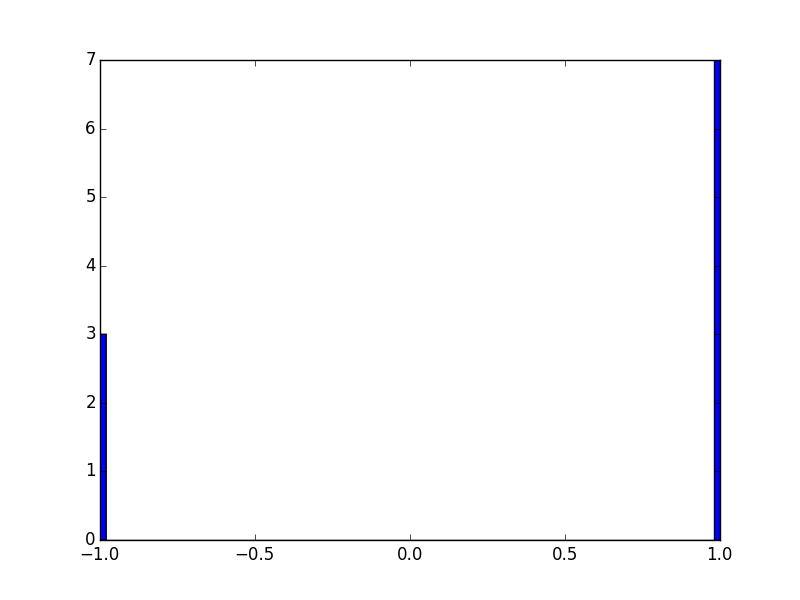
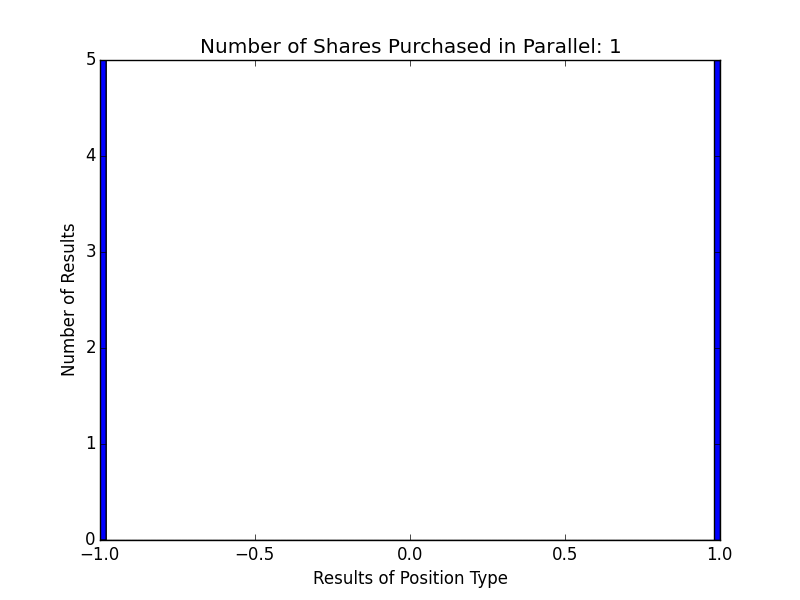
Almost done.

diff --git a/mtd368/positionsimulator.py b/mtd368/positionsimulator.py
@@ -1,49 +1,102 @@
+"""This is the primary class for the program for Assignment 8 that simulates trading."""
+
+#author: Matthew Dunn
+#netID: mtd368
+#date: 11/10/2015
+
 import numpy as np
 import matplotlib.pyplot as plt
 
 class dailypositionanalyzer(object):
-    def __init__(self):
-        self = self
-        # self.validinput = re.match(r'[\200-\377]|[\100-\132]|[\134]|[\136-\137]|[\140-\176]|[\072-\077]|[\055-\057]|[\041-\053]|\0|\v|\f|\a|\n|\r|\t|\s',self.userinput) #robust regex expression to make sure the User Input is really clean.
-        # if self.validinput != None or not(self.userinput): # also accounting for the user just hitting return here.
-        # raise ValueError('Invalid Intervals. found a character that does not belong or there was nothing entered.')random_outcome_per_position(position_value_calculator(x))
+    def __init__(self, positions, num_trials):
+        self.positions = positions
+        self.num_trials = num_trials
 
-def day_of_trading_simulator(positions, num_trials):
-    listOfPositions = positions
-    indexLog = len(listOfPositions)
+def day_of_trading(positions, num_trials):
+
+    """This function accepts two parameters a list called positions that represent the trades,
+    and integer value, num_trials, representing the number of times the simulation
+    should be run."""
+
+    indexLog = len(positions)
+    cumu_ret = np.zeros((0, num_trials),dtype=int)
     for x in range(indexLog):
-        cumu_ret = single_position_simluator(listOfPositions[x],num_trials)         #this is an array with the result of each day
-
-def single_position_simluator(numberOfSharesOfSinglePosition, num_trials):
-    dayOfTrading = np.empty((num_trials, numberOfSharesOfSinglePosition))
-    for x in np.nditer(dayOfTrading, op_flags=['readwrite']):
-        x[...] = daily_position_value_simulator(numberOfSharesOfSinglePosition)     #iterating over all the values in the ndarray and returning the randomized return.
-    cumu_ret = np.sum(dayOfTrading, axis=1)                                         #summing for each row which is a num_trial
-    print cumu_ret
-    daily_ret = np.empty((num_trials))
-    indexLog = len(daily_ret)
-    for i in range(indexLog):
-        daily_ret[i] = (cumu_ret[i]/1000) - 1
-    print daily_ret
-    return image_creation(daily_ret[i], numberOfSharesOfSinglePosition)
+        cumu_ret = np.insert(cumu_ret, [x], single_position(positions[x],num_trials), axis=0)  #this is an array with the result of each day
+    daily_ret = (cumu_ret/1000.) - 1                                                            #normalizing results of daily trading
+    image_creation(daily_ret, positions)
 
 def image_creation(daily_ret, numberOfSharesOfSinglePosition):
-    plt.hist(daily_ret,100,range=[-1,1])
-    nameOfFile = 'histogram_'+str(numberOfSharesOfSinglePosition).zfill(4)+'_.pos.png'
-    plt.savefig(nameOfFile)
 
+    """This function accepts two parameters, an array contianing the cumulative returns for each
+    simulated day of trading and an integer value, numberOfSharesOfSinglePosition,
+    representing the number shares purchased for a single position. It generates a
+    historgram for the daily return of the positions and saves it to the project file."""
 
-def daily_position_value_simulator(position):
+    for i in range(daily_ret.shape[0]):
+        plt.figure()
+        title = 'Number of Shares Purchased in Parallel: '+str(numberOfSharesOfSinglePosition[i])
+        plt.title(title)
+        plt.ylabel('Number of Results')
+        plt.xlabel('Results of Position Type')
+        plt.hist(daily_ret[i],100,range=[-1,1])
+        nameOfFile = 'histogram_'+str(numberOfSharesOfSinglePosition[i]).zfill(4)+'_.pos.png'
+        plt.savefig(nameOfFile)
+
+def single_position(numberOfSharesOfSinglePosition, num_trials):
+
+    """This function accepts two integer parameters, numberOfSharesOfSinglePosition and num_trials.
+    numberOfSharesOfSinglePosition indicates how many shares will be purchased based of a position
+    and the num_trials is the number of times the simulation will be run. This function returns
+    an array that contains the values for each day of trading."""
+
+    dayOfTrading = np.empty((num_trials, numberOfSharesOfSinglePosition))
+    for x in np.nditer(dayOfTrading, op_flags=['readwrite']):
+        x[...] = daily_position_value(numberOfSharesOfSinglePosition)     #iterating over all the values in the ndarray and returning the randomized return.
+    cumu_ret = np.sum(dayOfTrading, axis=1)                               #summing for each row which is a num_trial
+    dayOfTradingMean = str(np.mean(dayOfTrading, axis=1))
+    dayOfTradingStandardDeviation = str(np.std(dayOfTrading, axis=1))
+    results_printer(dayOfTradingMean, dayOfTradingStandardDeviation, numberOfSharesOfSinglePosition)
+    return cumu_ret
+
+def results_printer(dayOfTradingMean, dayOfTradingStandardDeviation, numberOfSharesOfSinglePosition):
+
+    """This function accepts three parameters, the dayOfTradingMean, dayOfTradingStandardDeviation, and
+    numberOfSharesOfSinglePosition. dayOfTradingMean and dayOfTradingStandardDeviation are both
+    both strings and the numberOfSharesOfSinglePosition is a integer value.  The function generates
+    a text file containing the results for each day of trading."""
+
+    concateOutputPerDay = ''
+    concateOutputPerDay = 'Number of Shares: ' + str(numberOfSharesOfSinglePosition) + '\n' + '\n' + 'Expected Value: ' + str(dayOfTradingMean) + '\n' + 'Standard Deviation: ' + str(dayOfTradingStandardDeviation) + '\n' + '\n'
+    with open('results.txt','a') as myfile:
+        myfile.write(concateOutputPerDay)
+    myfile.close()
+
+def daily_position_value(position):
+
+    """This function accepts one parameter, an integer representing the position and calculates
+    the value of the position returning the value of that position as either twice it's initial
+    value or zero, based on the random_outcome_per_position function."""
+
     positionValue = 1000/int(position)
     return random_outcome_per_position(positionValue)
 
 def random_outcome_per_position(position_value):
+
+    """This function accepts one parameter, an integer representing a position's value
+    and then calls a random number generator to determine whether it will return
+    twice input parameter's value or zero."""
+
     doubleOrLooseDayValue = random_number_generator()
     if doubleOrLooseDayValue == 1:
         return position_value*2
     return 0
 
 def random_number_generator():
+
+    """This function accepts no parameters and returns a one or zero base on a
+    random number generator set to be slighly biased towards return a value of
+    one, at 0.51 frequency"""
+
     randomlistZeroToOne = np.random.random()
     if (randomlistZeroToOne > 0.51):
         return 1

diff --git a/mtd368/assignment8.py b/mtd368/assignment8.py
@@ -1,26 +1,55 @@
+"""This is the main body of the program for Assignment 8"""
+
+#author: Matthew Dunn
+#netID: mtd368
+#date: 11/10/2015
+
 import positionsimulator
 import sys
-import re
-from positionsimulator import day_of_trading_simulator
+from positionsimulator import day_of_trading, dailypositionanalyzer
 
 # This try/except design I discussed with Sida because I was struggling with how to start the program. I tride mimicking what was in Adventure and failed.
 
 if __name__ == '__main__':
     try:
         while True:
-            positions = raw_input('Number of shares to buy in parrallel? ')
-            positions = positions.strip("[]")
-            positions = map(int, positions.split(","))
-            print positions
-            num_trials = raw_input('How many times to randomly repeat the test? ')
-            num_trials = int(num_trials)
-            print num_trials
+            # dailypositionanalyzer([1, 10, 100, 1000],10000)
+            # day_of_trading([1, 10, 100, 1000],10000)
             try:
-                values = day_of_trading_simulator(positions,num_trials)
-                print values
+                trymore = raw_input('The simulatio has just run 10,000 times for positions 1, 10, 100, and 1000.  Would you try some others? [y/n] ')
+                if trymore == 'n':
+                    print "Okay. Goodbye."
+                    break
+                elif trymore == 'y':
+                    positions = raw_input('Okay, what number of shares do you wish to buy in parrallel? ')
+                else:
+                    print "Improper Input. Goodbye."
+                    break
+                positions = positions.strip("[]")
+                try:
+                    positions = map(int, positions.split(","))
+                    print positions
+                except ValueError:
+                    print "Improper Input. Goodbye."
+                    break
+                num_trials = raw_input('How many times to randomly repeat the test? ')
+                try:
+                    num_trials = int(num_trials)
+                except ValueError:
+                    print "Improper Input. Goodbye."
+                    break
+                dailypositionanalyzer(positions,num_trials)
+                day_of_trading(positions,num_trials)
                 break
-            except Exception as e: raise
+            except ValueError:
+                print "Improper Input. Let's take it from the top! :-)"
     except KeyboardInterrupt, ValueError:
         print "\n Interrupted!"
     except EOFError:
         print "\n Interrupted!"
+    except ZeroDivisionError:
+        print "\n Math Error"
+    except TypeError:
+        print "\n Type Wrong!"
+    except OverflowError:
+        print "\n OverflowError!"

diff --git a/mtd368/tests.py b/mtd368/tests.py
@@ -1,0 +1,41 @@
+# test case
+
+"""This runs tests on the program to confirm intended functionality is occur."""
+
+#author: Matthew Dunn
+#netID: mtd368
+#date: 11/10/2015
+import os
+from unittest import TestCase
+from positionsimulator import dailypositionanalyzer, single_position, results_printer
+
+"""test function in positionsimulator.py"""
+
+class dailypositionanalyzer(unittest.TestCase):
+
+    def setUp(self):
+        pass
+
+    # position simulator test
+
+    def test_single_position1(self):
+        a = single_position(1000,10)        #test for number of trials equal to 10 and there is a single position of $1000
+        self.assertEquals(a.shape,(10,))    #confirming the returned array is the correct shape
+
+    def test_single_position2(self):
+        a = single_position(1,10)           #test for number of trials equal to 10 and there are 1000 positions each for $1
+        self.assertEquals(a.shape,(10,))    #confirming the returned array is the correct shape
+
+    # test of file creation. couldn't get the modules import when I moved it to another directory so the test didn't interfere with real results.
+
+    # def test_results_printer(self):                 #tests whether results file was generated.
+    #     dayOfTradingMean = '[1,2,3,4,5]'
+    #     dayOfTradingStandardDeviation = '[8,7,5,4,3,1]'
+    #     numberOfSharesOfSinglePosition = 10
+    #     x = results_printer(dayOfTradingMean, dayOfTradingStandardDeviation, numberOfSharesOfSinglePosition)
+    #     a = open('results.txt','r')
+    #     self.assertEquals(a.name, 'results.txt')
+    #     os.remove('results.txt')
+
+if __name__ == '__main__':
+    unittest.main()
